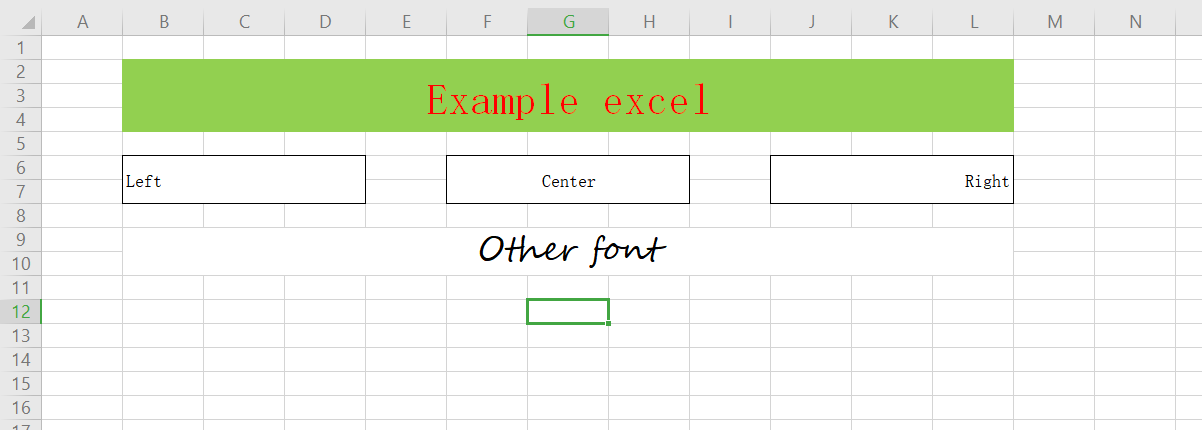
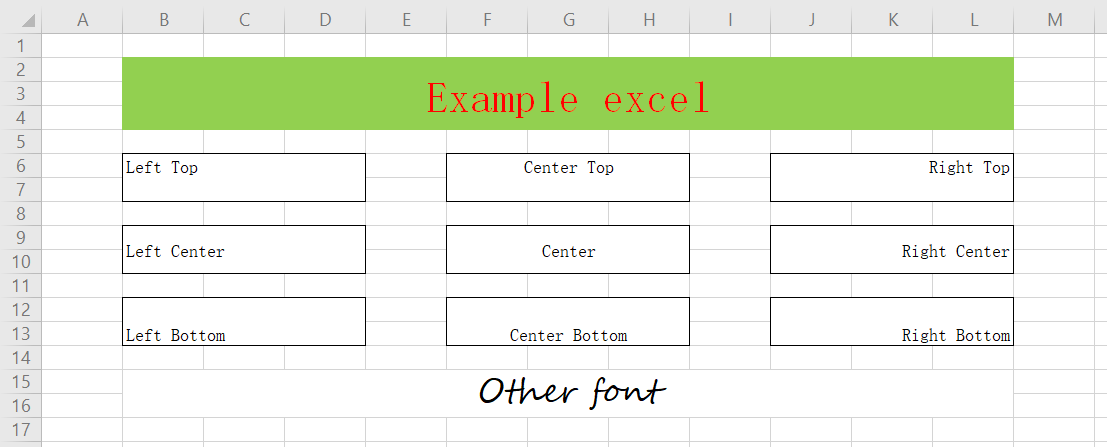
Text vertical align

diff --git a/src/main/java/cn/ryoii/ExcelCamera.java b/src/main/java/cn/ryoii/ExcelCamera.java
@@ -25,6 +25,7 @@ package cn.ryoii;
 import org.apache.poi.ss.usermodel.*;
 import org.apache.poi.ss.util.CellRangeAddress;
 import sun.awt.SunHints;
+import sun.font.FontDesignMetrics;
 
 import javax.imageio.ImageIO;
 import java.awt.Color;
@@ -209,20 +210,30 @@ public class ExcelCamera {
                 g2d.setFont(font);
 
                 // is text-align center
-                int x;
-                switch (g.getAlign()) {
-                    case 1:
-                        x = g.getX() + (g.getWidth() - strWidth - 1);
+                int x, y;
+                switch (g.getHorizontalAlign()) {
+                    case RIGHT:
+                        x = g.getX() + (g.getWidth() - strWidth - 2);
                         break;
-                    case 0:
-                        x = g.getX() + (g.getWidth() - strWidth) / 2 - 1;
+                    case CENTER:
+                        x = g.getX() + (g.getWidth() - strWidth - 1) / 2;
                         break;
                     default:
-                        x = g.getX();
+                        x = g.getX() + 1;
                         break;
                 }
-                g2d.drawString(g.getText(), x,
-                        g.getY() + (g.getHeight() - font.getSize()) / 2 + font.getSize());
+                switch (g.getVerticalAlignment()) {
+                    case TOP:
+                        y = g.getY() + fm.getAscent() + 1;
+                        break;
+                    case BOTTOM:
+                        y = g.getY() + g.getHeight() - font.getSize() + fm.getAscent() - fm.getDescent() - 2;
+                        break;
+                    default:
+                        y = g.getY() + (g.getHeight() + font.getSize() - 1) / 2 - fm.getDescent();
+                        break;
+                }
+                g2d.drawString(g.getText(), x, y);
             }
         }
 

diff --git a/src/main/java/cn/ryoii/InternalClass.java b/src/main/java/cn/ryoii/InternalClass.java
@@ -45,7 +45,8 @@ class Grid {
     private int row;
     private int col;
     private int border;
-    private int align;
+    private HorizontalAlignment horizontalAlign;
+    private VerticalAlignment verticalAlignment;
 
     private org.apache.poi.ss.usermodel.Color ftColor;
     private org.apache.poi.ss.usermodel.Color bgColor;
@@ -168,16 +169,8 @@ class Grid {
                 strCell = "";
         }
 
-        switch (cell.getCellStyle().getAlignment()) {
-            case RIGHT:
-                align = 1;
-                break;
-            case CENTER:
-                align = 0;
-                break;
-            default:
-                align = -1;
-        }
+        horizontalAlign = cell.getCellStyle().getAlignment();
+        verticalAlignment = cell.getCellStyle().getVerticalAlignment();
 
         if (cell.getCellStyle().getDataFormatString().contains("0.00%")) {
             try {
@@ -254,12 +247,22 @@ class Grid {
         this.border = border;
     }
 
-    public int getAlign() {
-        return align;
+    public HorizontalAlignment getHorizontalAlign() {
+        return horizontalAlign;
     }
 
-    public void setAlign(int align) {
-        this.align = align;
+    public Grid setHorizontalAlign(HorizontalAlignment horizontalAlign) {
+        this.horizontalAlign = horizontalAlign;
+        return this;
+    }
+
+    public VerticalAlignment getVerticalAlignment() {
+        return verticalAlignment;
+    }
+
+    public Grid setVerticalAlignment(VerticalAlignment verticalAlignment) {
+        this.verticalAlignment = verticalAlignment;
+        return this;
     }
 
     public Color getFtColor() {

diff --git a/src/test/java/example/ExampleTest.java b/src/test/java/example/ExampleTest.java
@@ -35,7 +35,7 @@ public class ExampleTest {
         File file = new File("excel/example.xlsx");
         ExcelCameraConfiguration configuration = new ExcelCameraConfiguration(file);
         configuration
-                .rowTo(12).colTo(13)
+                .rowTo(18).colTo(13)
                 .rowZoom(1.1).colZoom(1.1)
                 .sheetName("example sheet");
         ExcelCamera excelCamera = new ExcelCamera(configuration);

diff --git a/README.md b/README.md
@@ -73,7 +73,7 @@ public class ExampleTest {
 + [X] 字体大小
 + [X] 字体颜色
 + [X] 文本水平居中
-+ [ ] 文本垂直居中
++ [X] 文本垂直居中
 + [ ] 文本换行
 + [ ] 自动调整单元格宽度
 

diff --git a/README_EN.md b/README_EN.md
@@ -73,7 +73,7 @@ public class ExampleTest {
 + [X] Font size
 + [X] Font Color
 + [X] Text horizontal align
-+ [ ] Text vertical align
++ [X] Text vertical align
 + [ ] Line breaker and text wrap
 + [ ] auto size
 
